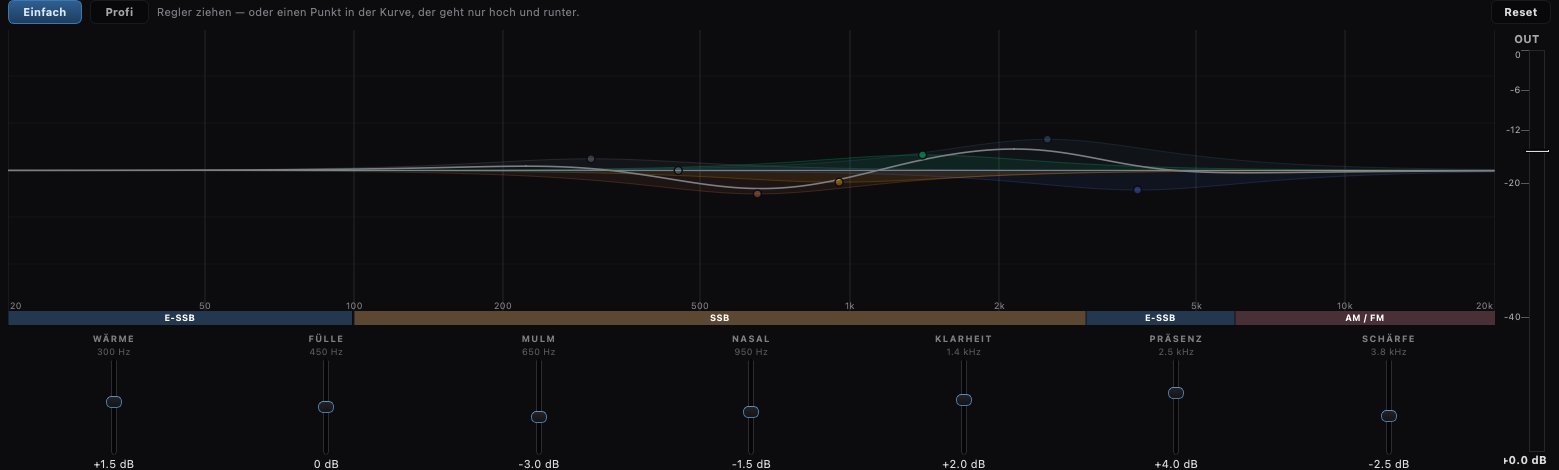
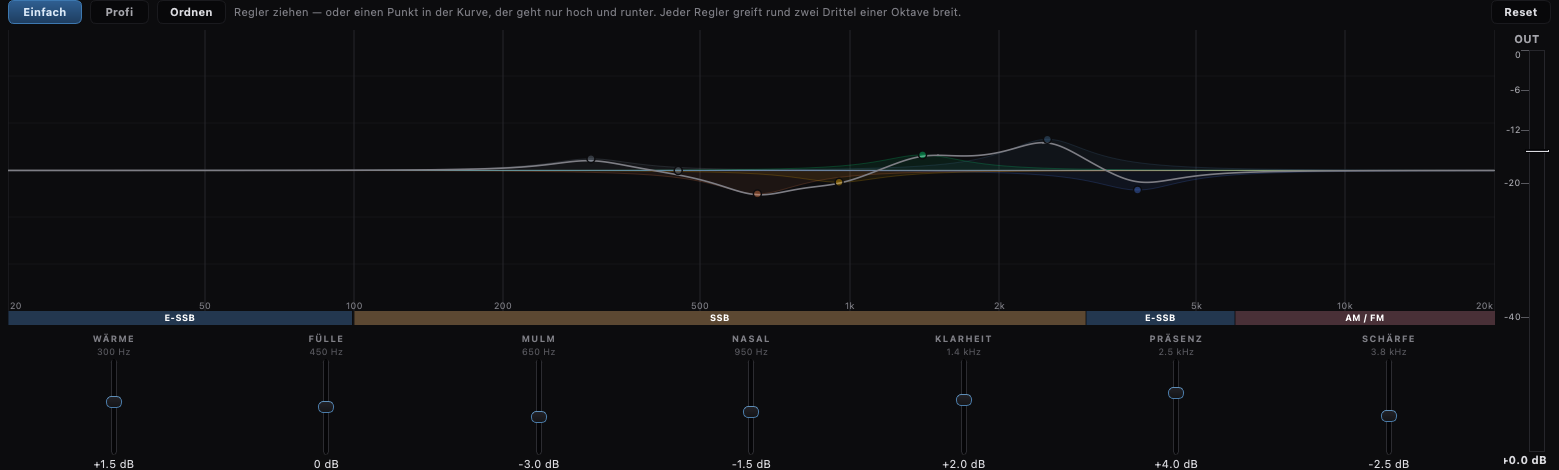
Die einfachen Regler greifen schmaler
„ich denke, dass die bereiche teilweise viel zu groß sind, die
 geändert werden."

Eine geerbte Zahl: die freien Griffe kommen mit Q = 0,707 auf die
Welt (Butterworth, ClientEqs neutraler Vorgabewert). Das sind rund
zwei Oktaven -- wer bei 1,4 kHz anhebt, hebt von 600 Hz bis 5 kHz an.
Als Klangregler richtig, als „Klarheit" die halbe Stimme.

Jetzt Q = 2,0, rund zwei Drittel einer Oktave. Die Griffe stehen im
Abstand von etwa 0,58 Oktaven, greifen also noch ineinander; bei
Q = 2,5 würden sie sich gerade berühren und die Summe bekäme Wellen.

Gesetzt wird es beim ZIEHEN, nicht beim Umschalten der Ansicht --
sonst wäre ein Ansichtswechsel ein Eingriff in den Ton, und die
Zusage von gestern Abend wäre weg.

Derselbe Zug setzt den Griff auch auf seine Frequenz. Am Gerät stand
NASAL auf 2 kHz, oberhalb von KLARHEIT auf 1,5 kHz: in der
Profi-Ansicht geschoben, und der Name stimmte nicht mehr. Dafür gibt
es jetzt „Ordnen" -- ein Griff, alle sieben zurück auf Frequenz und
Breite, die Pegel bleiben stehen.

Changed region(s): [[0.1847, 0.2979, 0.9545, 0.417], [0.0924, 0.0, 0.6158, 0.0298], [0.1232, 0.3574, 0.1539, 0.3872]]

diff --git a/src/gui/applets/eq/StripEqSimpleBar.cpp b/src/gui/applets/eq/StripEqSimpleBar.cpp
@@ -74,22 +74,44 @@ StripEqSimpleBar::bandSlots()
     //
     // Die Frequenzen sind die der Griffe, nicht umgekehrt -- hier wird
     // benannt, nicht gesetzt.
+    // ── Wie breit ein Regler greift ──────────────────────────────────
+    //
+    // „ich denke, dass die bereiche teilweise viel zu groß sind, die
+    //  geändert werden."
+    //
+    // Stimmt, und es war eine geerbte Zahl: die Griffe kommen mit
+    // Q = 0,707 auf die Welt (Butterworth, der neutrale Vorgabewert
+    // aus ClientEq). Das sind rund ZWEI OKTAVEN -- wer bei 1,4 kHz
+    // anhebt, hebt von 600 Hz bis 5 kHz an. Als Klangregler ist das
+    // richtig, als „Praesenz" ist es die halbe Stimme.
+    //
+    // Q = 2,0 sind rund 0,7 Oktaven. Die Griffe stehen im Abstand von
+    // etwa 0,58 Oktaven, also greifen Nachbarn noch ineinander (bei
+    // Q = 2,5 wuerden sie sich gerade beruehren und die Summe bekaeme
+    // Wellen) -- aber jeder Regler meint jetzt seine Gegend und nicht
+    // die halbe Stimme.
+    //
+    // Gesetzt wird das erst, wenn an einem Regler GEZOGEN wird, nicht
+    // beim Umschalten der Ansicht. Die Zusage „Umschalten aendert den
+    // Ton nicht" gilt weiter.
+    static constexpr float kQ = 2.0f;
+
     static const std::array<Slot, kCount> kSlots = {{
-        { EqBandLayout::kFirstSpare + 0, "WÄRME",
+        { EqBandLayout::kFirstSpare + 0, "WÄRME",     300.0f,  kQ,
           "300 Hz. Hoch macht die Stimme voller, runter nimmt das"
           " Dumpfe." },
-        { EqBandLayout::kFirstSpare + 1, "FÜLLE",
+        { EqBandLayout::kFirstSpare + 1, "FÜLLE",     450.0f,  kQ,
           "450 Hz. Der Unterbau der Stimme." },
-        { EqBandLayout::kFirstSpare + 2, "MULM",
+        { EqBandLayout::kFirstSpare + 2, "MULM",      650.0f,  kQ,
           "650 Hz. Runter, wenn es nach Pappkarton klingt." },
-        { EqBandLayout::kFirstSpare + 3, "NASAL",
+        { EqBandLayout::kFirstSpare + 3, "NASAL",     950.0f,  kQ,
           "950 Hz. Runter, wenn es durch die Nase klingt." },
-        { EqBandLayout::kFirstSpare + 4, "KLARHEIT",
+        { EqBandLayout::kFirstSpare + 4, "KLARHEIT", 1400.0f,  kQ,
           "1,4 kHz. Verständlichkeit — das, was im Pile-up"
           " durchkommt." },
-        { EqBandLayout::kFirstSpare + 5, "PRÄSENZ",
+        { EqBandLayout::kFirstSpare + 5, "PRÄSENZ",  2500.0f,  kQ,
           "2,5 kHz. Das „vorne“. Zuviel davon wird anstrengend." },
-        { EqBandLayout::kFirstSpare + 6, "SCHÄRFE",
+        { EqBandLayout::kFirstSpare + 6, "SCHÄRFE",  3800.0f,  kQ,
           "3,8 kHz. Biss und S-Laute. Runter, wenn es zischt." },
     }};
     return kSlots;
@@ -197,6 +219,20 @@ void StripEqSimpleBar::reload()
     m_reloading = false;
 }
 
+void StripEqSimpleBar::tidy()
+{
+    if (m_eq == nullptr) { return; }
+    for (const Slot& s : bandSlots()) {
+        auto bp = m_eq->band(s.band);
+        bp.freqHz = s.freqHz;
+        bp.q      = s.q;
+        m_eq->setBand(s.band, bp);
+    }
+    if (m_host != nullptr) { m_host->saveClientEqSettings(); }
+    reload();
+    emit changed();
+}
+
 void StripEqSimpleBar::applyBand(int i, int sliderValue)
 {
     if (m_eq == nullptr) { return; }
@@ -205,6 +241,14 @@ void StripEqSimpleBar::applyBand(int i, int sliderValue)
 
     auto bp = m_eq->band(s.band);
     bp.gainDb  = db;
+    // Angefasst heisst auch: dieser Griff ist jetzt das, was sein
+    // Name sagt -- auf seiner Frequenz und in seiner Breite. Ohne das
+    // bleibt ein in der Profi-Ansicht verschobener Griff unter einem
+    // Namen stehen, der nicht mehr stimmt (gesehen: NASAL auf 2 kHz,
+    // oberhalb von KLARHEIT auf 1,5 kHz -- die Reihe stand nicht mehr
+    // der Reihe nach).
+    bp.freqHz  = s.freqHz;
+    bp.q       = s.q;
     // Angefasst heisst eingeschaltet. Bei 0 dB ist das hoerbar
     // dasselbe wie aus, und es erspart den Fall „Regler steht auf +4,
     // Band ist aus".

diff --git a/tests/tst_eq_two_views.cpp b/tests/tst_eq_two_views.cpp
@@ -175,6 +175,61 @@ private slots:
         QVERIFY(!canvas->simpleMode());
     }
 
+    // „ich denke, dass die bereiche teilweise viel zu groß sind, die
+    //  geändert werden." Ein Regler, an dem gezogen wird, setzt
+    //  seinen Griff auf SEINE Frequenz und SEINE Breite -- sonst
+    //  heisst „Präsenz" zwei Oktaven.
+    void draggingAFaderNarrowsAndPlacesItsBand()
+    {
+        build();
+        const auto& sl = StripEqSimpleBar::bandSlots()[5];   // Präsenz
+
+        // Vorher in der Profi-Ansicht verschoben und breit gemacht.
+        auto bp = m_chain.eq().band(sl.band);
+        bp.freqHz = 2000.0f;
+        bp.q      = 0.707f;
+        m_chain.eq().setBand(sl.band, bp);
+
+        auto* bar = m_panel->findChild<StripEqSimpleBar*>();
+        QVERIFY(bar != nullptr);
+        bar->findChildren<QSlider*>().at(5)->setValue(30);
+
+        const auto after = m_chain.eq().band(sl.band);
+        QVERIFY2(std::abs(after.freqHz - sl.freqHz) < 0.01f,
+                 qPrintable(QStringLiteral("steht auf %1 Hz statt %2")
+                                .arg(double(after.freqHz))
+                                .arg(double(sl.freqHz))));
+        QVERIFY2(after.q > 1.5f,
+                 qPrintable(QStringLiteral("immer noch breit: Q = %1")
+                                .arg(double(after.q))));
+    }
+
+    // Ordnen raeumt alle sieben auf und laesst die Pegel stehen.
+    void tidyPlacesEveryHandleAndKeepsTheLevels()
+    {
+        build();
+        for (const auto& sl : StripEqSimpleBar::bandSlots()) {
+            auto bp = m_chain.eq().band(sl.band);
+            bp.freqHz = sl.freqHz * 1.7f;   // irgendwo daneben
+            bp.q      = 0.707f;
+            bp.gainDb = 3.0f;
+            bp.enabled = true;
+            m_chain.eq().setBand(sl.band, bp);
+        }
+
+        auto* bar = m_panel->findChild<StripEqSimpleBar*>();
+        QVERIFY(bar != nullptr);
+        bar->tidy();
+
+        for (const auto& sl : StripEqSimpleBar::bandSlots()) {
+            const auto bp = m_chain.eq().band(sl.band);
+            QVERIFY(std::abs(bp.freqHz - sl.freqHz) < 0.01f);
+            QVERIFY(std::abs(bp.q - sl.q) < 0.01f);
+            QVERIFY2(std::abs(bp.gainDb - 3.0f) < 0.01f,
+                     "Ordnen hat einen Pegel verstellt");
+        }
+    }
+
     // Und so sieht es aus -- beide Ansichten, wirkliche Groesse.
     void bothViewsOnFile()
     {
@@ -184,13 +239,16 @@ private slots:
         build();
         // Eine Einstellung, damit das Blatt etwas zeigt und nicht die
         // flache Null.
-        const float set[StripEqSimpleBar::kCount] =
-            { 1.5f, 0.0f, -3.0f, -1.5f, 2.0f, 4.0f, -2.5f };
+        // Ueber die REGLER, nicht an den Baendern vorbei -- sonst
+        // zeigt das Blatt eine Kurve, die so nie entsteht (die
+        // Breite setzt der Regler beim Ziehen).
+        auto* setBar = m_panel->findChild<StripEqSimpleBar*>();
+        QVERIFY(setBar != nullptr);
+        const int set[StripEqSimpleBar::kCount] =
+            { 15, 0, -30, -15, 20, 40, -25 };
+        const auto setSliders = setBar->findChildren<QSlider*>();
         for (int i = 0; i < StripEqSimpleBar::kCount; ++i) {
-            auto bp = m_chain.eq().band(StripEqSimpleBar::bandSlots()[i].band);
-            bp.gainDb = set[i];
-            bp.enabled = true;
-            m_chain.eq().setBand(StripEqSimpleBar::bandSlots()[i].band, bp);
+            setSliders.at(i)->setValue(set[i]);
         }
         m_panel->refreshFromEngine();
         m_panel->resize(940, 470);

diff --git a/src/gui/applets/eq/StripEqPanel.cpp b/src/gui/applets/eq/StripEqPanel.cpp
@@ -267,6 +267,28 @@ StripEqPanel::StripEqPanel(EqHost* engine, QWidget* parent)
         connect(m_proBtn, &QPushButton::clicked,
                 this, [this]() { setSimpleView(false); });
 
+        // ── Ordnen ───────────────────────────────────────────────────
+        //
+        // Ein Regler setzt seinen Griff erst beim Ziehen auf seine
+        // Frequenz und Breite -- sonst waere das Umschalten der
+        // Ansicht ein Eingriff in den Ton, und das soll es nicht
+        // sein. Wer aber vorher in der Profi-Ansicht geschoben hat,
+        // findet die Reihe durcheinander: am Geraet gesehen stand
+        // NASAL auf 2 kHz, oberhalb von KLARHEIT auf 1,5 kHz.
+        // Dieser Knopf raeumt das in einem Griff auf und laesst die
+        // Pegel stehen.
+        auto* tidyBtn = new QPushButton(QStringLiteral("Ordnen"));
+        tidyBtn->setFixedHeight(24);
+        applyThemed(tidyBtn, kRowButtonStyle);
+        tidyBtn->setToolTip(QStringLiteral(
+            "Setzt die sieben Regler zurück auf ihre Frequenz und "
+            "Breite — die Pegel bleiben, wie sie stehen."));
+        connect(tidyBtn, &QPushButton::clicked, this, [this]() {
+            if (m_simpleBar) { m_simpleBar->tidy(); }
+        });
+        row->addWidget(tidyBtn);
+        m_simpleOnly.push_back(tidyBtn);
+
         // Eine Geste, eine Groesse -- und das muss dastehen, sonst
         // ist es keine Regel, sondern ein Geheimnis. Siehe
         // ClientEqEditorCanvas::mouseMoveEvent.
@@ -691,6 +713,9 @@ void StripEqPanel::setSimpleView(bool simple)
     for (QWidget* w : m_proOnly) {
         if (w != nullptr) { w->setVisible(!simple); }
     }
+    for (QWidget* w : m_simpleOnly) {
+        if (w != nullptr) { w->setVisible(simple); }
+    }
     if (m_iconRow)   { m_iconRow->setVisible(!simple); }
     if (m_paramRow)  { m_paramRow->setVisible(!simple); }
     if (m_simpleBar) {
@@ -702,7 +727,9 @@ void StripEqPanel::setSimpleView(bool simple)
     if (m_hint != nullptr) {
         m_hint->setText(simple
             ? QStringLiteral("Regler ziehen — oder einen Punkt in der "
-                             "Kurve, der geht nur hoch und runter.")
+                             "Kurve, der geht nur hoch und runter. "
+                             "Jeder Regler greift rund zwei "
+                             "Drittel einer Oktave breit.")
             : QStringLiteral("Ziehen = lauter/leiser · "
                              "⌥ + ziehen = Frequenz · "
                              "⇧ + ziehen = Breite · "

diff --git a/src/gui/applets/eq/StripEqSimpleBar.h b/src/gui/applets/eq/StripEqSimpleBar.h
@@ -49,6 +49,8 @@ public:
     struct Slot {
         int         band;     // Index in ClientEq
         const char* name;     // Versalien ueber dem Regler
+        float       freqHz;   // wo der Regler hingehoert
+        float       q;        // wie breit er greift
         const char* what;     // ein Satz, als Hilfetext
     };
     static constexpr int kCount = 7;
@@ -58,6 +60,11 @@ public:
 
     void setEq(ClientEq* eq);
     void setHost(EqHost* host);
+
+    // Alle sieben Griffe auf ihre Frequenz und Breite setzen, die
+    // Pegel behalten. Fuer den Fall, dass in der Profi-Ansicht
+    // verschoben wurde und die Reihe nicht mehr der Reihe nach steht.
+    void tidy();
 
     // Regler und Zahlen aus den Baendern nachziehen. Nach jeder
     // Aenderung von aussen noetig -- Profi-Ansicht, Zuruecksetzen,

diff --git a/src/gui/applets/eq/StripEqPanel.h b/src/gui/applets/eq/StripEqPanel.h
@@ -178,6 +178,8 @@ private:
     // Umschalten eine Schleife ist und nicht zwoelf Zeilen, von denen
     // beim naechsten Knopf eine vergessen wird.
     std::vector<QWidget*>      m_proOnly;
+    // Und das Gegenstueck: was nur die einfache Ansicht zeigt.
+    std::vector<QWidget*>      m_simpleOnly;
     bool                       m_simpleView{true};
     ClientEqOutputFader*       m_outFader{nullptr};
     QTimer*                    m_fftTimer{nullptr};

diff --git a/docs/design/2026-10-10-eq-einfach/README.md b/docs/design/2026-10-10-eq-einfach/README.md
@@ -47,6 +47,29 @@ der auf einen Zug nicht reagiert, ist schlimmer als kein Punkt.
 vertretbar macht: **Umschalten ändert den Ton nicht** — hin und
 zurück, und kein Band hat sich bewegt.
 
+## Nachtrag: die Breite (2026-10-10, am Gerät)
+
+> „ich denke, dass die bereiche teilweise viel zu groß sind, die
+>  geändert werden."
+
+Stimmt, und es war eine geerbte Zahl. Die freien Griffe kommen mit
+**Q = 0,707** auf die Welt (Butterworth, ClientEqs neutraler
+Vorgabewert) — das sind rund **zwei Oktaven**. Wer bei 1,4 kHz
+anhebt, hebt von 600 Hz bis 5 kHz an; als „Klarheit" ist das die
+halbe Stimme.
+
+Jetzt **Q = 2,0**, rund zwei Drittel einer Oktave. Die Griffe stehen
+im Abstand von etwa 0,58 Oktaven, greifen also noch ineinander — bei
+Q = 2,5 würden sie sich gerade berühren und die Summe bekäme Wellen.
+
+Gesetzt wird das **beim Ziehen**, nicht beim Umschalten der Ansicht:
+die Zusage „Umschalten ändert den Ton nicht" bleibt. Gleichzeitig
+setzt der Regler seinen Griff auf **seine** Frequenz — am Gerät stand
+NASAL auf 2 kHz, oberhalb von KLARHEIT auf 1,5 kHz, weil in der
+Profi-Ansicht geschoben worden war. Für genau diesen Fall gibt es
+**„Ordnen"**: ein Griff, alle sieben zurück auf Frequenz und Breite,
+Pegel bleiben.
+
 ## Der erste Vorschlag (überholt)
 
 `eq-einfach.png` — die Seite als **sechs benannte Regler** auf festen
